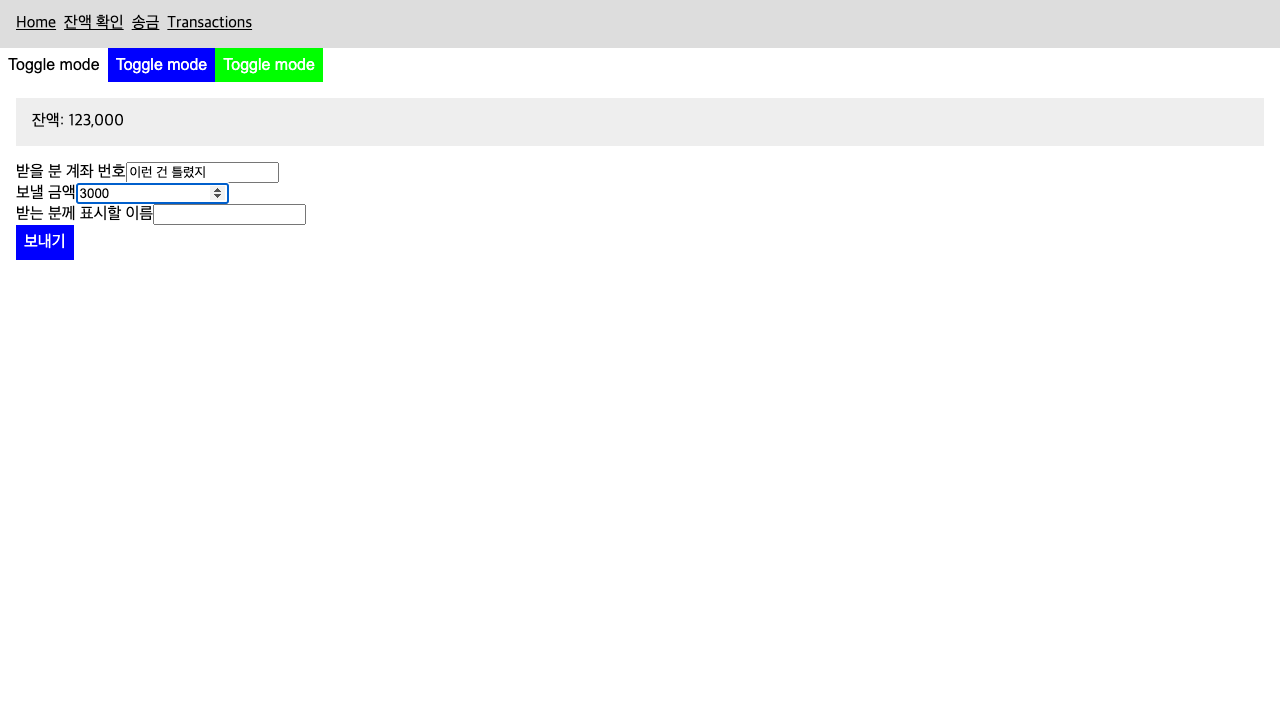
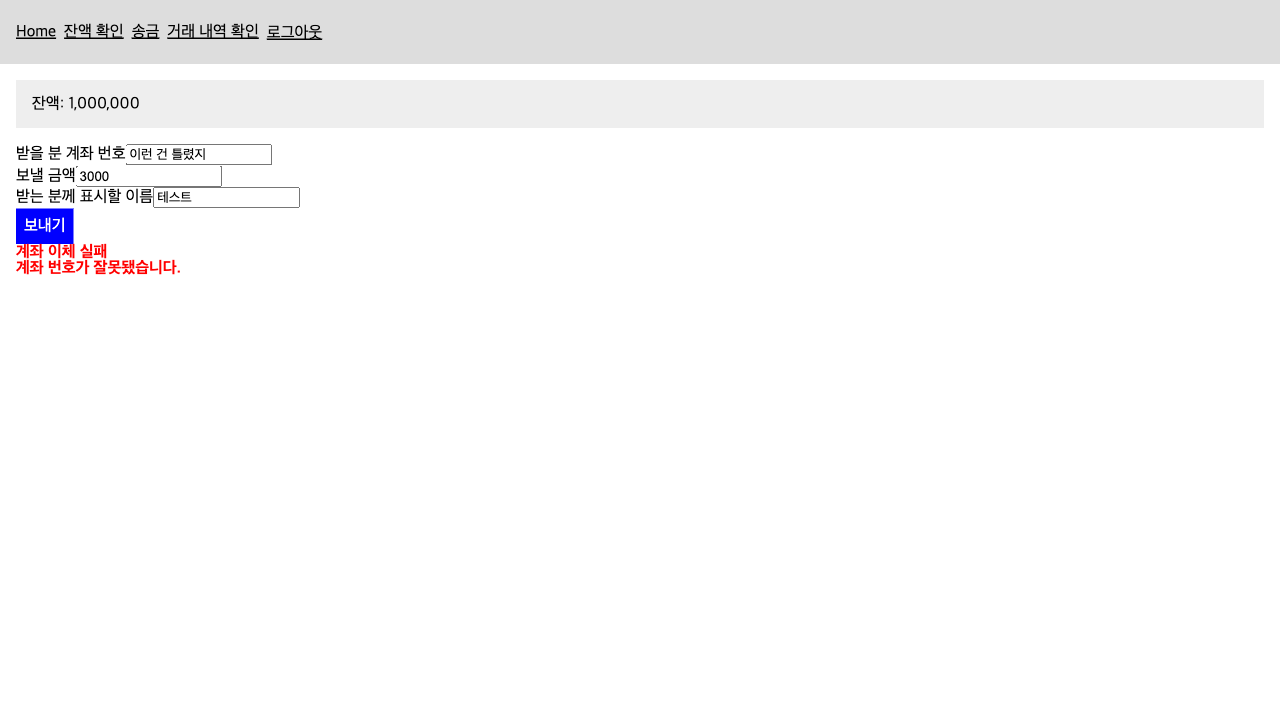
로그인 프론트엔드
코드셉트 테스트 부분 일부 해결

백도어 유알엘 주소 수정

로그인 프론트엔드 구현

Changed region(s): [[0.0, 0.0, 1.0, 0.3972]]

diff --git a/frontend/src/components/Header.jsx b/frontend/src/components/Header.jsx
@@ -1,4 +1,5 @@
 import { Link } from 'react-router-dom';
+import { useLocalStorage } from 'usehooks-ts';
 import styled from 'styled-components';
 
 const Container = styled.header`
@@ -18,9 +19,26 @@ const Container = styled.header`
             margin-right: .5em;
         }
     }
+    a,
+    button {
+      font-size: 1em;
+      display: inline-block;
+      line-height:2em;
+      padding:0;
+      border: 0;
+      background: transparent;
+      text-decoration: underline;
+      cursor: pointer;
+    }
 `;
 
 export default function Header() {
+  const [accessToken, setAccessToken] = useLocalStorage('accessToken', '');
+
+  const handleLogout = () => {
+    setAccessToken('');
+  };
+
   return (
     <Container>
       <nav>
@@ -28,15 +46,26 @@ export default function Header() {
           <li>
             <Link to="/">Home</Link>
           </li>
-          <li>
-            <Link to="/account">잔액 확인</Link>
-          </li>
-          <li>
-            <Link to="/transfer">송금</Link>
-          </li>
-          <li>
-            <Link to="/transactions">거래 내역 확인</Link>
-          </li>
+          {accessToken ? (
+            <>
+              <li>
+                <Link to="/account">잔액 확인</Link>
+              </li>
+              <li>
+                <Link to="/transfer">송금</Link>
+              </li>
+              <li>
+                <Link to="/transactions">거래 내역 확인</Link>
+              </li>
+              <li>
+                <button type="button" onClick={handleLogout}>로그아웃</button>
+              </li>
+            </>
+          ) : (
+            <li>
+              <Link to="/login">로그인</Link>
+            </li>
+          )}
         </ul>
       </nav>
     </Container>

diff --git a/frontend/src/App.jsx b/frontend/src/App.jsx
@@ -8,43 +8,28 @@ import HomePage from './pages/HomePage';
 import AccountPage from './pages/AccountPage';
 import TransferPage from './pages/TransferPage';
 import TransactionsPage from './pages/TransactionsPage';
-
 import defaultTheme from './styles/defaultTheme';
 import darkTheme from './styles/darkTheme';
-import PrimaryButton from './components/ui/PrimaryButton';
-import SecondaryButton from './components/ui/SecondaryButton';
-import Button from './components/ui/Button';
+import LoginPage from './pages/LoginPage';
 
 const Main = styled.main`
   padding: 1em;
 `;
 
 export default function App() {
-  const [themeName, setThemeName] = useLocalStorage('theme', 'default');
+  const [themeName] = useLocalStorage('theme', 'default');
 
   const theme = themeName === 'dark' ? darkTheme : defaultTheme;
-
-  const toggleTheme = () => {
-    setThemeName(themeName === 'default' ? 'dark' : 'default');
-  };
 
   return (
     <ThemeProvider theme={theme}>
       <Reset />
       <GlobalStyle />
       <Header />
-      <Button type="button" onClick={toggleTheme}>
-        Toggle mode
-      </Button>
-      <PrimaryButton type="button" onClick={toggleTheme}>
-        Toggle mode
-      </PrimaryButton>
-      <SecondaryButton type="button" onClick={toggleTheme}>
-        Toggle mode
-      </SecondaryButton>
       <Main>
         <Routes>
           <Route path="/" element={<HomePage />} />
+          <Route path="/login" element={<LoginPage />} />
           <Route path="/account" element={<AccountPage />} />
           <Route path="/transfer" element={<TransferPage />} />
           <Route path="/transactions" element={<TransactionsPage />} />

diff --git a/frontend/src/components/LoginForm.jsx b/frontend/src/components/LoginForm.jsx
@@ -1,0 +1,56 @@
+import { useForm } from 'react-hook-form';
+import { useNavigate } from 'react-router-dom';
+import { useLocalStorage } from 'usehooks-ts';
+import useBankStore from '../hooks/useBankStore';
+
+import PrimaryButton from './ui/PrimaryButton';
+
+export default function LoginForm() {
+  const navigate = useNavigate();
+
+  const [, setAccessToken] = useLocalStorage('accessToken', '');
+
+  const bankStore = useBankStore();
+
+  const { register, handleSubmit } = useForm();
+
+  const onSubmit = async (data) => {
+    const { accountNumber, password } = data;
+    const accessToken = await bankStore.login({ accountNumber, password });
+    if (accessToken) {
+      navigate('/');
+      setAccessToken(accessToken);
+    }
+  };
+
+  return (
+    <form onSubmit={handleSubmit(onSubmit)}>
+      <h2>로그인</h2>
+      <div>
+        <label htmlFor="input-account-number">
+          계좌 번호
+        </label>
+        <input
+          id="input-account-number"
+          type="text"
+          // eslint-disable-next-line react/jsx-props-no-spreading
+          {...register('accountNumber', { required: true })}
+        />
+      </div>
+      <div>
+        <label htmlFor="input-password">
+          패스워드
+        </label>
+        <input
+          id="input-password"
+          type="password"
+          // eslint-disable-next-line react/jsx-props-no-spreading
+          {...register('password', { required: true })}
+        />
+      </div>
+      <PrimaryButton type="submit" onClick={() => {}}>
+        로그인
+      </PrimaryButton>
+    </form>
+  );
+}

diff --git a/frontend/src/components/LoginForm.test.jsx b/frontend/src/components/LoginForm.test.jsx
@@ -1,0 +1,38 @@
+import {
+  fireEvent, render, screen, waitFor,
+} from '@testing-library/react';
+import { ThemeProvider } from 'styled-components';
+
+import defaultTheme from '../styles/defaultTheme';
+import LoginForm from './LoginForm';
+
+const navigate = jest.fn();
+
+jest.mock('react-router-dom', () => ({
+  useNavigate() {
+    return navigate;
+  },
+}));
+
+test('LoginForm', async () => {
+  render((
+    <ThemeProvider theme={defaultTheme}>
+      <LoginForm />
+    </ThemeProvider>
+  ));
+
+  screen.getByRole('heading', { name: '로그인' });
+
+  fireEvent.change(screen.getByLabelText('계좌 번호'), {
+    target: { value: '1234' },
+  });
+
+  fireEvent.change(screen.getByLabelText('패스워드'), {
+    target: { value: 'password' },
+  });
+  fireEvent.click(screen.getByRole('button', { name: '로그인' }));
+
+  await waitFor(() => {
+    expect(navigate).toBeCalledWith('/');
+  });
+});

diff --git a/frontend/steps_file.js b/frontend/steps_file.js
@@ -4,14 +4,25 @@ const backdoorBaseUrl = 'http://localhost:8000/backdoor';
 
 module.exports = () => actor({
   setupDatabase() {
-    this.amOnPage(`${backdoorBaseUrl}/backdoor/setup-database`);
+    this.amOnPage(`${backdoorBaseUrl}/setup-database`);
   },
 
-  changeAmount(userId, amount) {
+  changeAmount({ userId, amount }) {
     this.amOnPage([
       `${backdoorBaseUrl}/change-amount`,
       `?userId=${userId}&amount=${amount}`,
     ].join(''));
+  },
+
+  login(accountNumber) {
+    this.amOnPage('/login');
+
+    this.fillField('계좌 번호', accountNumber);
+    this.fillField('패스워드', 'password');
+    this.click('[type=submit]');
+
+    // then
+    this.waitForText('로그아웃');
   },
 
   transfer({ to, amount, name }) {

diff --git a/frontend/tests/features/account_test.js b/frontend/tests/features/account_test.js
@@ -3,9 +3,9 @@ Feature('Account detail');
 Before(({ I }) => {
   I.setupDatabase();
 
-  I.amOnPage('/');
+  I.login('1234');
 
-  // ToDo: 로그인
+  I.amOnPage('/');
 });
 
 Scenario('잔액이 없는 경우', ({ I }) => {
@@ -27,6 +27,7 @@ Scenario('잔액이 있는 경우', ({ I }) => {
   // given
   I.changeAmount({ userId: 1, amount: 123000 });
   // when
+  I.amOnPage('/');
 
   I.click('잔액 확인');
   // then

diff --git a/frontend/src/index.jsx b/frontend/src/index.jsx
@@ -1,11 +1,11 @@
 import ReactDOM from 'react-dom/client';
-import { BrowserRouter, MemoryRouter } from 'react-router-dom';
+import { BrowserRouter } from 'react-router-dom';
 import App from './App';
 
 const container = document.getElementById('app');
 const root = ReactDOM.createRoot(container);
 root.render((
-  <MemoryRouter>
+  <BrowserRouter>
     <App />
-  </MemoryRouter>
+  </BrowserRouter>
 ));

diff --git a/frontend/src/components/Transactions.test.jsx b/frontend/src/components/Transactions.test.jsx
@@ -1,7 +1,6 @@
 import { render, screen, waitFor } from '@testing-library/react';
-import TransactionsPage from '../pages/transactionsPage';
+import TransactionsPage from '../pages/TransactionsPage';
 import { bankStore } from '../stores/BankStore';
-import Transactions from './Transactions';
 
 test('Transactions', async () => {
   await bankStore.fetchTransactions();

diff --git a/frontend/tests/features/transfer_test.js b/frontend/tests/features/transfer_test.js
@@ -11,9 +11,10 @@ Before(({ I }) => {
   I.setupDatabase();
   I.changeAmount({ userId: 1, amount });
 
+  I.login('1234');
+
   I.amOnPage('/');
 
-  // ToDo: 로그인
   I.click('송금');
 });
 

diff --git a/frontend/tests/features/transactions_test.js b/frontend/tests/features/transactions_test.js
@@ -6,7 +6,7 @@ Before(({ I }) => {
 
   // ToDo: 계좌 설정
 
-  // ToDo: 로그인
+  I.login('1234');
 });
 
 Scenario('거래 내역이 없는 경우', ({ I }) => {

diff --git a/frontend/src/pages/LoginPage.jsx b/frontend/src/pages/LoginPage.jsx
@@ -1,0 +1,7 @@
+import LoginForm from '../components/LoginForm';
+
+export default function LoginPage() {
+  return (
+    <LoginForm />
+  );
+}

diff --git a/frontend/src/components/TransferForm.jsx b/frontend/src/components/TransferForm.jsx
@@ -1,5 +1,3 @@
-import { useState } from 'react';
-
 import { useForm } from 'react-hook-form';
 import styled from 'styled-components';
 
